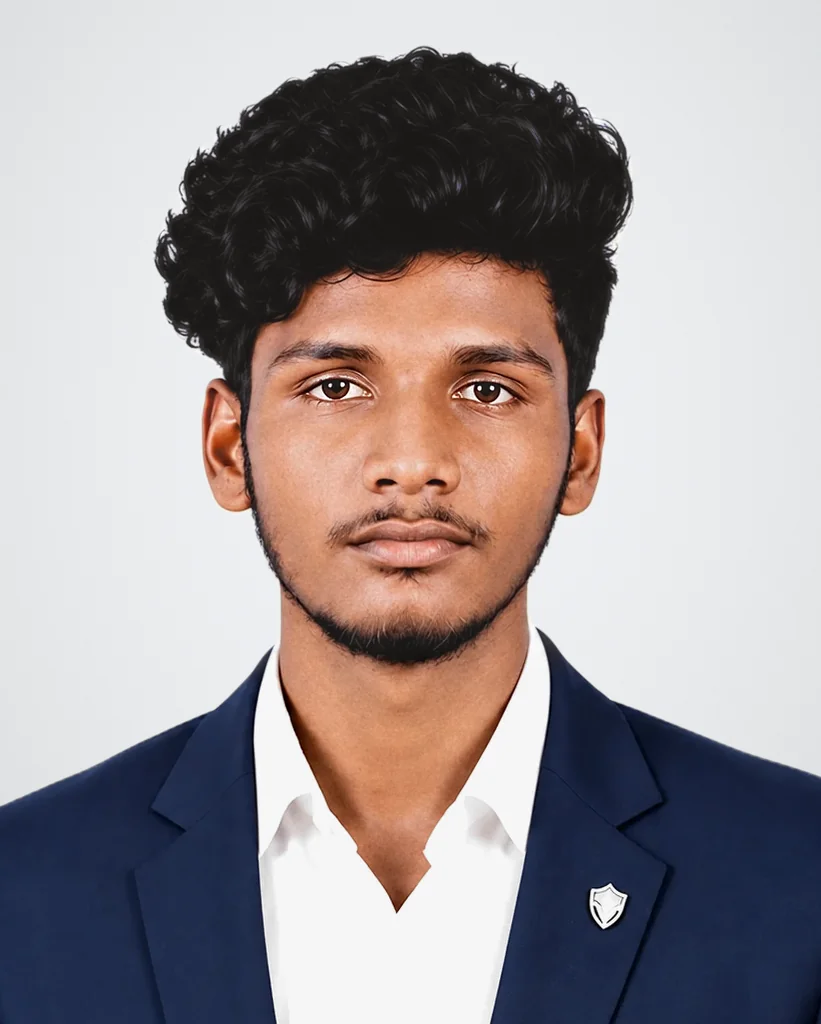
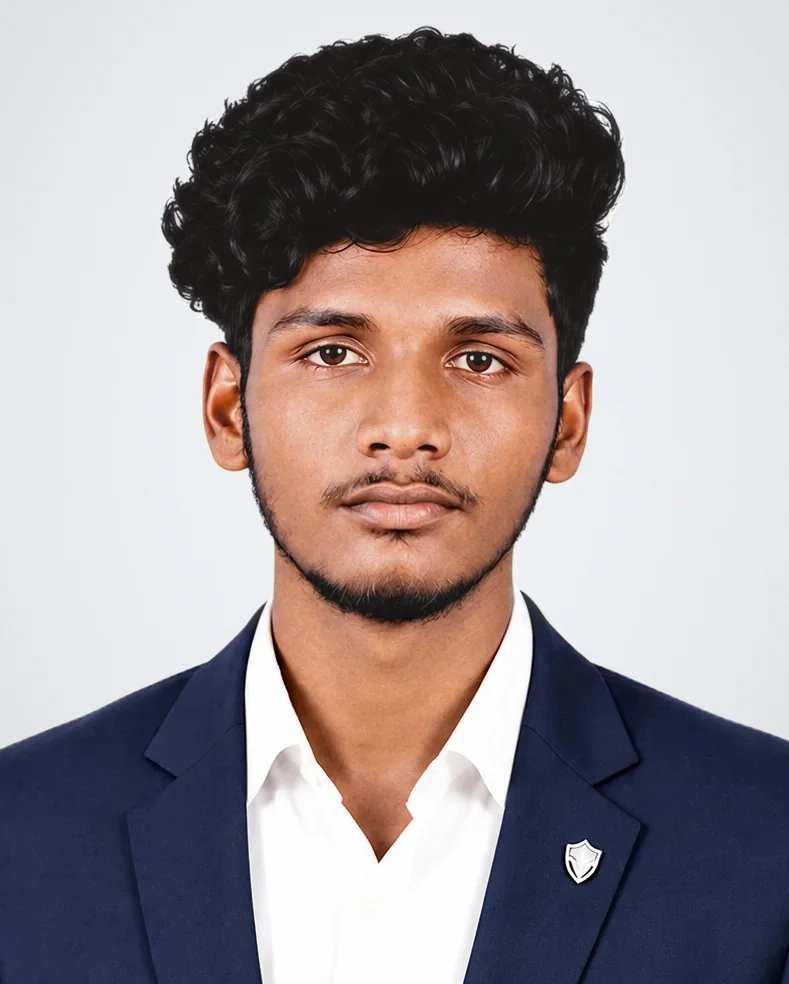
fix: update hero headshot and trim corner artifacts
Re-export the new headshot JPG as WebP, cropping 16px per side and 40px
from the bottom to remove light rounded-corner artifacts while keeping
the 4:5 ratio. Update the img width/height to match (789x984).

diff --git a/src/components/Hero.jsx b/src/components/Hero.jsx
@@ -203,7 +203,7 @@ function HeroVisual() {
       <motion.div className="glass portrait" style={{ rotateX, rotateY }}>
         <span className="beam" aria-hidden="true" />
         <div className="portrait__frame">
-          <img src={profile.portrait} alt={profile.portraitAlt} width="821" height="1024" fetchPriority="high" />
+          <img src={profile.portrait} alt={profile.portraitAlt} width="789" height="984" fetchPriority="high" />
           <motion.span
             className="portrait__glare"
             aria-hidden="true"
